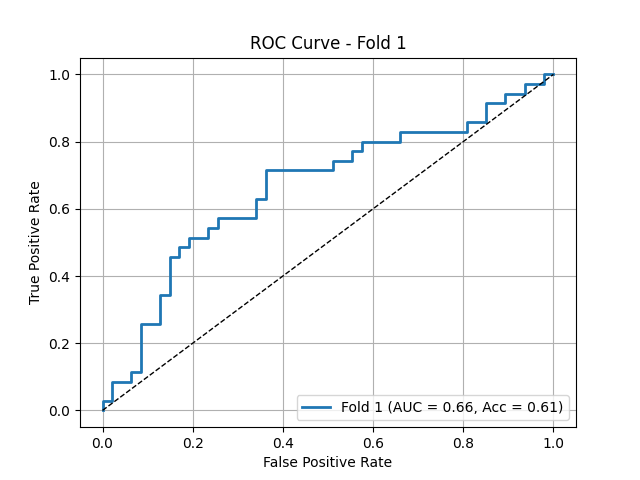
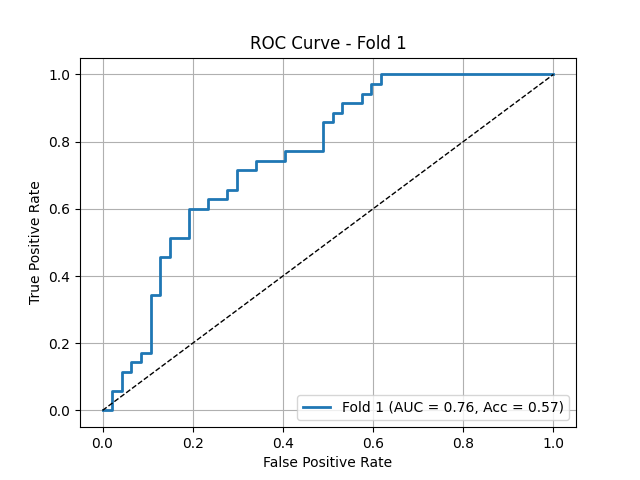
densenet model experiment

diff --git a/train_washu2_classifier.py b/train_washu2_classifier.py
@@ -10,7 +10,6 @@ from torchvision import transforms, datasets
 from datetime import datetime
 from models_imagenetbases import BinaryClassification
 from dataset_washu2 import Classificaiton_Dataset
-from dataset_washu2_p1_43 import Classificaiton_Dataset as Classificaiton_Dataset_test
 import subprocess
 import re
 from sklearn.metrics import roc_curve, auc
@@ -20,7 +19,7 @@ import numpy as np
 
 max_epochs = 250
 min_epochs = 1
-batch_size = 16
+batch_size = 32
 check_val_every_n_epoch = 3
 num_workers = 0
 k_fold = 5
@@ -40,8 +39,8 @@ all_fprs = []
 all_tprs = []
 all_aucs = []
 
-project_title = "Ovarian Cancer Classification 4"
-Experiment_Group = f"Exp7:Densenet_model_{commit_log}"
+project_title = "Ovarian Cancer Classification 6"
+Experiment_Group = f"Exp3:{commit_string}_{commit_log}"
 train_config = {
         "k_fold": k_fold,
         "batch_size": batch_size,

diff --git a/models_imagenetbases.py b/models_imagenetbases.py
@@ -332,8 +332,8 @@ class BinaryClassification(pl.LightningModule):
         self.model = ImageNet_Models(name_model="densenet")
 
 
-        self.loss_fn = nn.BCEWithLogitsLoss()  #AsymmetricLoss()  #nn.BCEWithLogitsLoss()  # More stable than BCELoss
-        self.loss_fn2 = FocalLoss()
+        #self.loss_fn = nn.BCEWithLogitsLoss()  #AsymmetricLoss()  #nn.BCEWithLogitsLoss()  # More stable than BCELoss
+        self.loss_fn = FocalLoss()
         self.accuracy_metric = BinaryAccuracy()  # Accuracy metric using TorchMetrics
         self.auc_metric = torchmetrics.AUROC(task="binary")
 
